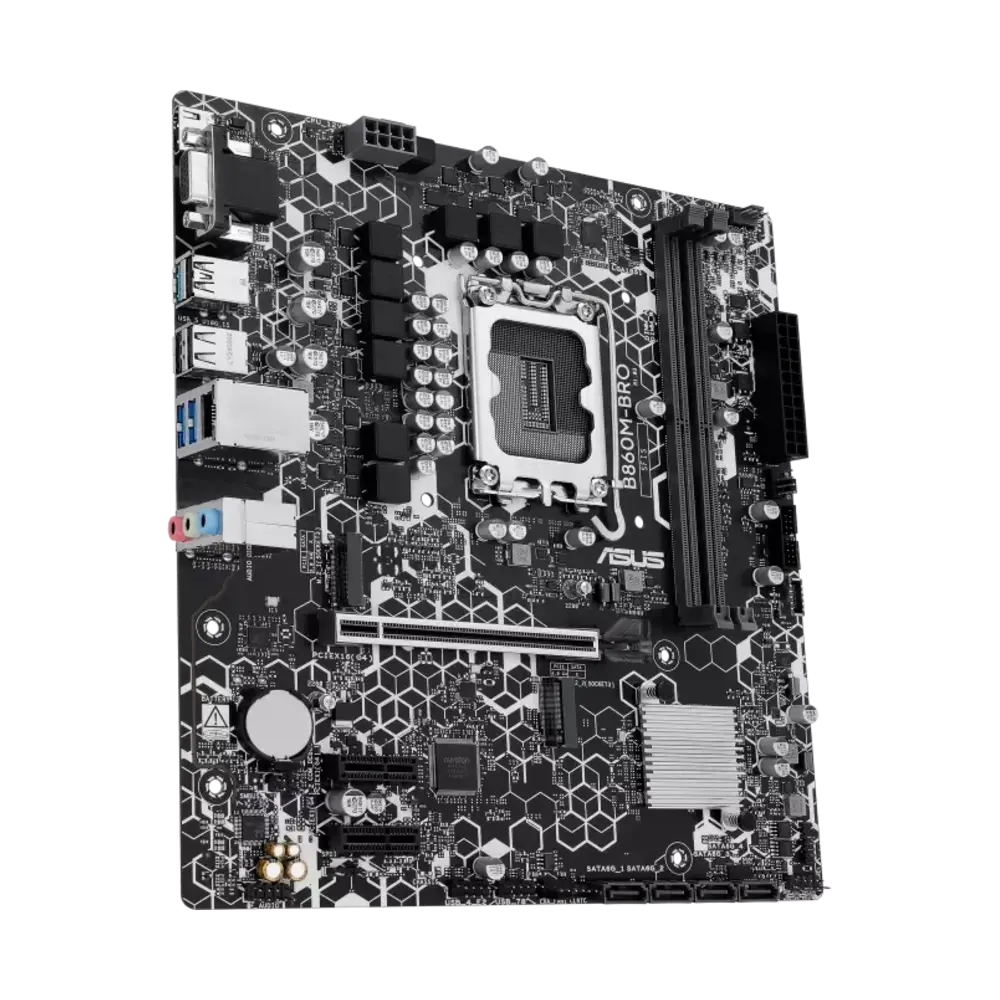
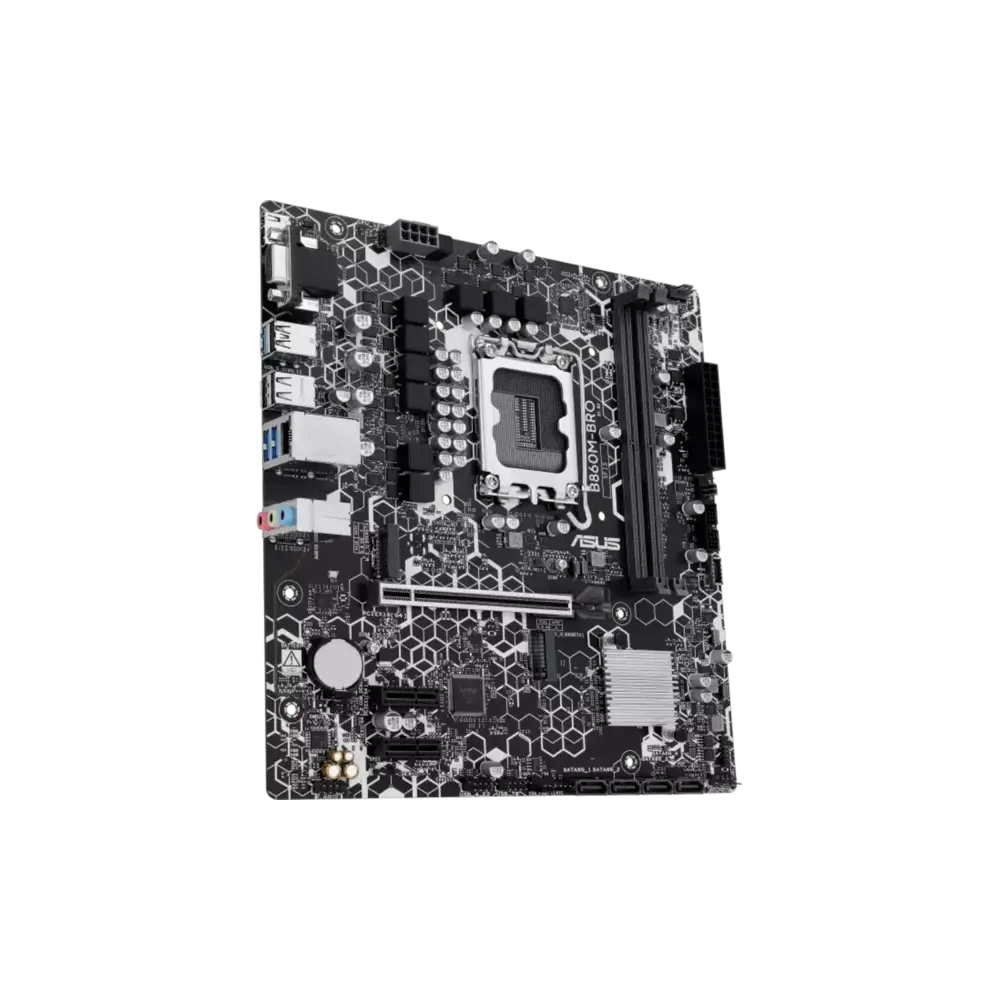
Normalize motherboard photo scale for card hover

diff --git a/PROJECT_STATUS.md b/PROJECT_STATUS.md
@@ -2,6 +2,20 @@
 
 Last updated: 2026-11-08
 
+## Выравнивание масштаба и положения фотографий материнских плат (2026-11-08)
+
+- Повторно проверены все 16 товаров категории «Материнские платы»: `mb-001`–`mb-016`. Пять товаров (`mb-005`, `mb-007`, `mb-008`, `mb-009`, `mb-012`) по-прежнему оставлены с заглушками, поскольку в каталоге нет точного заводского обозначения для безопасного выбора фотографии.
+- Обработаны все 17 существующих локальных WebP-файлов: 11 основных фотографий и 6 дополнительных ракурсов для `mb-001` и `mb-014`.
+- Содержимое плат не менялось: сохранены модели, маркировка, радиаторы, слоты, разъёмы, цвета и ориентация. Прозрачный фон сохранён, изображения приведены к единому холсту 1000×1000, а видимая плата уменьшена до примерно 60% по большей стороне и отцентрирована.
+- Масштаб уменьшен с прежних примерно 82% холста до безопасного уровня для фактической области карточки высотой 205 px. При этом сохранён существующий `.product-card:hover .product-image img { transform: scale(1.06); }`; CSS, JavaScript, карточки, размеры контейнеров, фильтры и сортировка не менялись.
+- Все платы полностью помещаются в кадр с равномерным запасом, без обрезки и деформации. Пять неопределённых моделей не заменялись похожими фотографиями.
+
+### Проверки этапа
+
+- Все 17 WebP декодируются корректно, имеют размер 1000×1000 и настоящий прозрачный альфа-канал; видимые границы плат находятся внутри холста.
+- Проверены основные и дополнительные пути `images/products/mb-*/main.webp` и `01.webp`–`03.webp`, а также карточки `rgw_page_motherboards.html` и галереи `product.html?id=...` через существующие `images[]`.
+- Проверено сохранение `object-fit: contain`, hover-правила `scale(1.06)`, цен, характеристик, названий, ID, SKU, `price.csv` и фотографий других категорий.
+
 ## Полное исправление фона фотографий раздела «Аксессуары и хранение» (2026-11-08)
 
 - Повторно проверены все 10 фактических подкатегорий раздела и все 89 товарных записей: внешние HDD/SSD (16), флешки (8), карты памяти (4), кабели (1), переходники (5), USB-хабы (8), сумки и рюкзаки (20), DVD-приводы (2), проекторы и экраны (19), прочие аксессуары (6).
